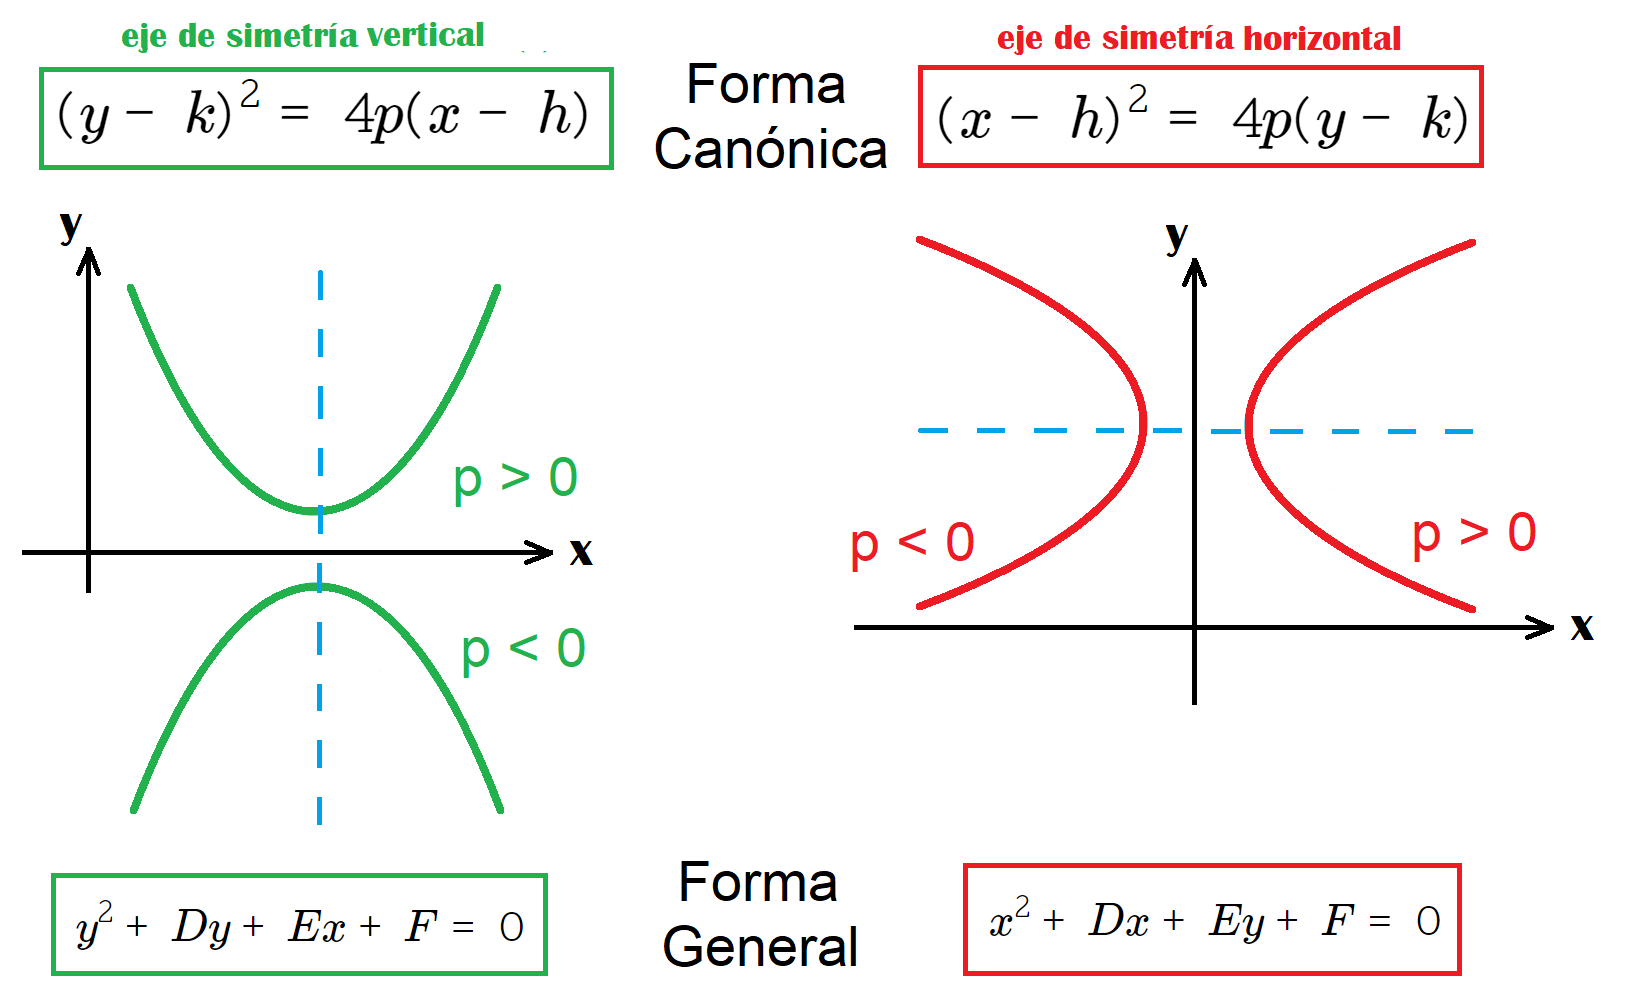
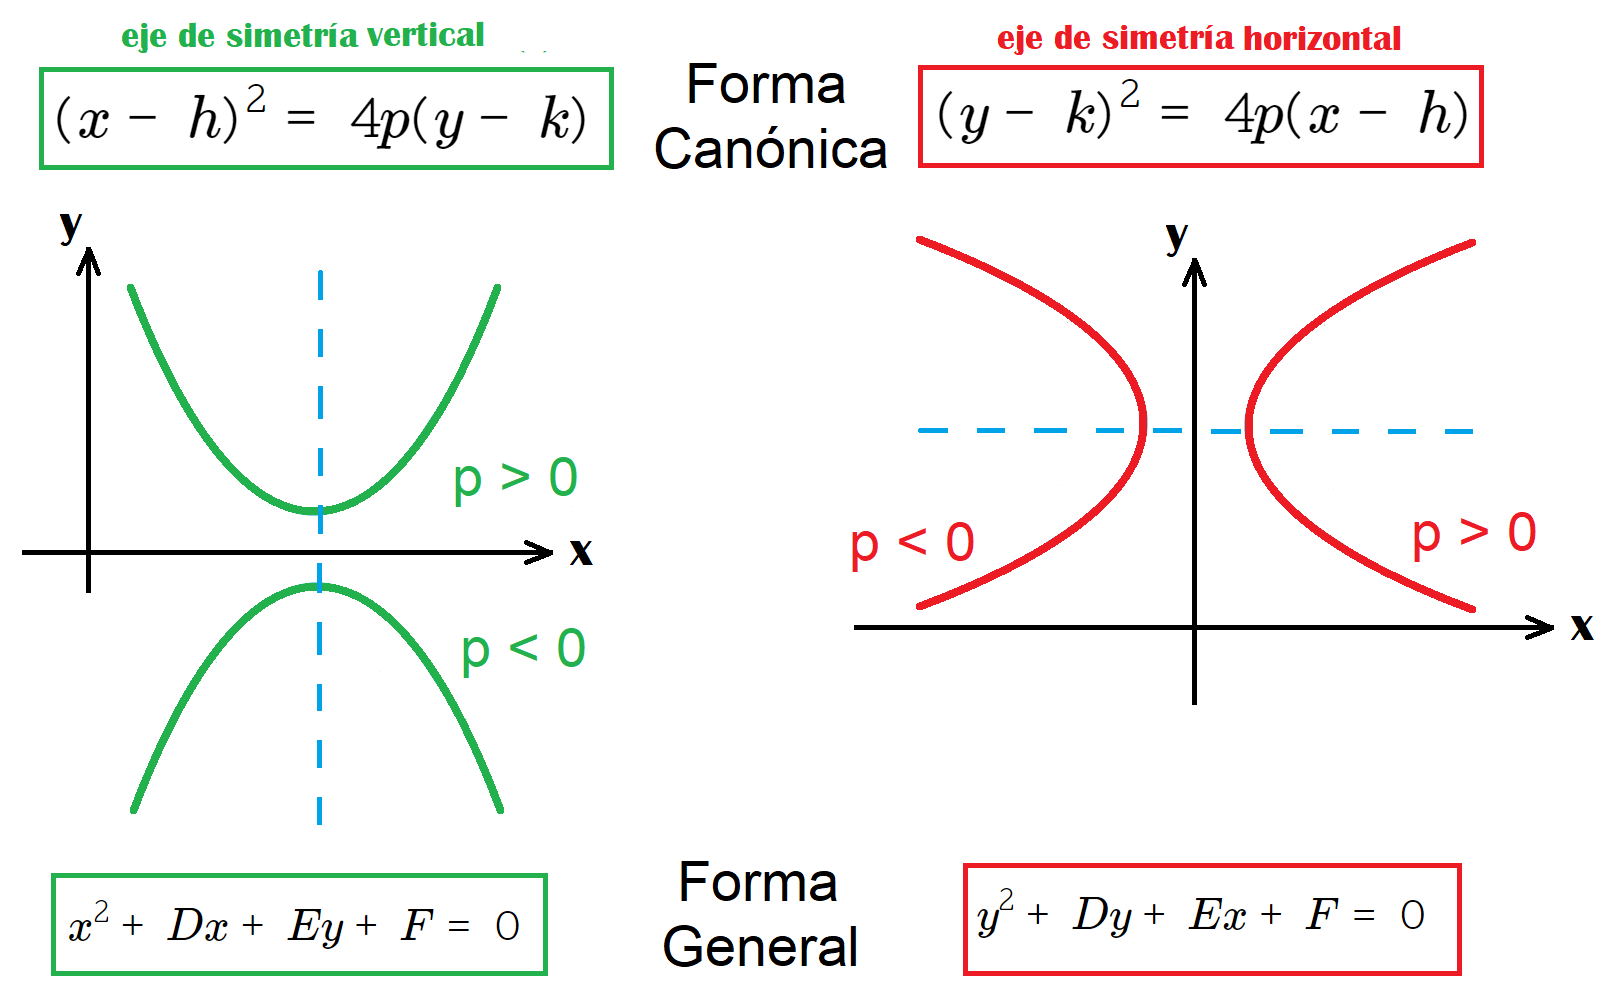
correccion ejes de simetría en geometría

diff --git a/views/contenido/recursoUniversitario/metodosMatematicosII.html b/views/contenido/recursoUniversitario/metodosMatematicosII.html
@@ -116,6 +116,7 @@
     </div><br>
 
     <h2>Cambiando el intervalo</h2><br>
+
     <p>Convengamos en que de forma más general, para una función $f(x)$ cuyo período es $T$ su representación en serie de Fourier está dada por la expresión</p>
 
     <p>$$f(x)=\frac{a_{0}}{2}+\sum_{n=1}^{\infty }\left [ a_{n}cos\left ( \frac{n2\pi x}{T} \right ) + b_{n}sin\left ( \frac{n2\pi x}{T} \right )  \right ]$$</p>
@@ -129,7 +130,26 @@
     <p>$$b_n= \frac{2}{T } \int_{-\frac{T }{2}}^{\frac{T }{2} } f(x) sin\left ( \frac{n2\pi x}{T} \right )dx$$</p>
     <br>
 
-    <h2>Serie de Fourier compleja.</h2><br> 
+    <p>Si tomamos como convención que $T=2L$ entonces tendremos</p>
+
+    <p></p>
+
+    
+
+    <div class="doblecolumn">
+        <div style="margin: auto;">
+            <p class="ec-final">$$f(x)=\frac{a_{0}}{2}+\sum_{n=1}^{\infty }\left [ a_{n}cos\left ( \frac{n\pi x}{L} \right ) + b_{n}sin\left ( \frac{n\pi x}{L} \right )  \right ]$$</p>
+        </div>
+        
+        <div class="ec-final">
+
+            <p>$$a_n= \frac{1}{L } \int_{-L}^{L} f(x) cos\left ( \frac{n\pi x}{L}  \right )dx$$</p>
+            <p>$$b_n= \frac{1}{L }  \int_{-L}^{L} f(x) sin\left ( \frac{n\pi x}{L}  \right )dx$$</p>
+            <br>
+        </div>
+    </div><br><br>
+
+    <h2 id="fourier-compleja">Serie de Fourier compleja.</h2><br> 
     <!-- https://www.tamps.cinvestav.mx/~wgomez/diapositivas/FIC/FIC-03.pdf -->
     <!-- http://www.sc.ehu.es/sbweb/fisica3/ondas/fourier/fourier.html -->
 

diff --git a/views/contenido/recursoEscolar/geometria.html b/views/contenido/recursoEscolar/geometria.html
@@ -163,11 +163,11 @@
 
             <p>Estas parábolas abren hacia arriba o hacia abajo y tienen una <b>ecuación canónica</b> de la forma</p>
 
-            <p>$$(y-k)^2 = 4p(x-h)$$</p>
+            <p>$$(x-h)^2 = 4p(y-k)$$</p>
 
             <p>También pueden ser representadas por una <b>ecuación general</b>  de la forma</p>
 
-            <p>$$y^2+Dy+Ex+F=0$$</p>
+            <p>$$x^2+Dx+Ey+F=0$$</p><br>
 
             <h4>Coordenadas del vértice</h4><br>
             <p>Las coordenadas del punto llamado vértice para una parábola está dado por</p>
@@ -197,11 +197,11 @@
 
             <p>Estas parábolas abren hacia la izquierda o hacia la derecha y tienen una <b>ecuación canónica</b> de la forma</p>
 
-            <p>$$(x-h)^2 = 4p(y-k)$$</p>
+            <p>$$(y-k)^2 = 4p(x-h)$$</p>
 
             <p>También pueden ser representadas por una <b>ecuación general</b>  de la forma</p>
 
-            <p>$$x^2+Dx+Ey+F=0$$</p><br>
+            <p>$$y^2+Dy+Ex+F=0$$</p>
 
             <h4>Coordenadas del vértice</h4><br>
             <p>Las coordenadas del punto llamado vértice para una parábola está dado por</p>

diff --git a/views/contenido/contacto.html b/views/contenido/contacto.html
@@ -107,6 +107,7 @@
                     <!--Grid row-->
                     
                     <button type="submit" class="btn btn-primary">Enviar</button>
+                    <p id="my-form-status"></p>
                     
 
                 </form>
@@ -138,4 +139,28 @@
     }
 </script>
 https://www.youtube.com/watch?v=qtH8PLuy1Ck
--->
+
+
+
+<script>
+    var form = document.getElementById('form');
+
+    async function handleSubmit(event){
+        event.preventDefault();
+        var status = document.getElementById('my-form-status');
+        var data = new FormData(event.target);
+        fetch(event.target.action, {
+                methood: form.methood,
+                body: data,
+                headers: {
+                    'Accept' : 'application/json'
+                }
+            }).then(response => {
+                status.innerHTML = "gracias por escribirnos!";
+                form.reset()
+            }).catch(error => {
+                status.innerHTML = "lo siento, hubo un problema!";
+            });
+    }
+    form.addEventListener("submit", handleSubmit)
+</script>-->

diff --git a/content.html b/content.html
@@ -4,11 +4,16 @@
     <meta charset="UTF-8">
     <meta http-equiv="X-UA-Compatible" content="IE=edge">
     <meta name="viewport" content="width=device-width, initial-scale=1.0">
+    
+    <meta name="copyright" content="PhysicsProject.org">
+    <meta name="author" content="Fernando Briceño">
+    <meta name="audience" content="all">
 
     <meta property="og:image" content="https://physicsproject.org/img/logo/previsualizationLogo.png">
     <meta property="og:title" content="PhysicsProject"/>
     <!-- <title>PhysicsProject</title>-->
-    <link rel="shortcut icon" href="./img/logo/GatoBlancoIcon.png">
+    <link rel="shortcut icon" href="./img/logo/GatoBlancoIcon.png"><!-- 
+    <link rel="icon" type="image/x-icon" href="https://physicsproject.org/img/logo/previsualizationLogo.png">-->
     <link rel="stylesheet" href="./css/estilo.css">
 
     <script src="./js/menu.js" defer></script>
@@ -56,6 +61,8 @@
         <contenido-component></contenido-component>
         <br><br>
     </div>
+
+
  
     
 </body>

diff --git a/index.html b/index.html
@@ -4,9 +4,14 @@
     <meta charset="UTF-8">
     <meta http-equiv="X-UA-Compatible" content="IE=edge">
     <meta name="viewport" content="width=device-width, initial-scale=1.0">
+    <meta name="copyright" content="PhysicsProject.org">
+    <meta name="author" content="Fernando Briceño">
+    <meta name="audience" content="all">
     <title>PhysicsProject</title>
     <meta name="description" content="Un sitio para aprender física y matemáticas, desde el nivel escolar hasta el nivle universitario">
-    <link rel="shortcut icon" href="./img/logo/GatoBlancoIcon.png">
+    <link rel="shortcut icon" href="./img/logo/GatoBlancoIcon.png"><!-- 
+    <link rel="icon" type="image/x-icon" href="https://physicsproject.org/img/logo/previsualizationLogo.png">-->
+    
 
     <meta property="og:image" content="https://physicsproject.org/img/logo/previsualizationLogo.png">
     <meta property="og:title" content="PhysicsProject"/>

diff --git a/views/contenido/recursoUniversitario/mecanicaCuantica.html b/views/contenido/recursoUniversitario/mecanicaCuantica.html
@@ -276,6 +276,10 @@
         </tbody>
     </table><br>
 
+    <h2 id="espectros">Espectro de absorción y de emisión.</h2><br>
+
+    <p><b>Newton</b> fue uno de los primeros en estudiar la luz y cómo la luz blanca se componía en realidad de luz de diferentes frecuencias. Esto lo realizó dejando pasar un haz de luz a través de un prisma, el indice de difracción del prisma perimite descomponer el haz de luz en todas las frecuecnias que lo componen, lo que se consigue al final es observar todas las tonalidiades de luz que contiene el haz. </p>
+
 
 
     <h2 id="ecuacion-independiente-tiempo">La ecuación de Schrödinger independiente del tiempo</h2><br>

diff --git a/css/estilo.css b/css/estilo.css
@@ -274,5 +274,5 @@ li::marker {
     margin: auto;
     margin-top: 30px;
     
-    border-radius:5%;
+    border-radius:20px;
 }
